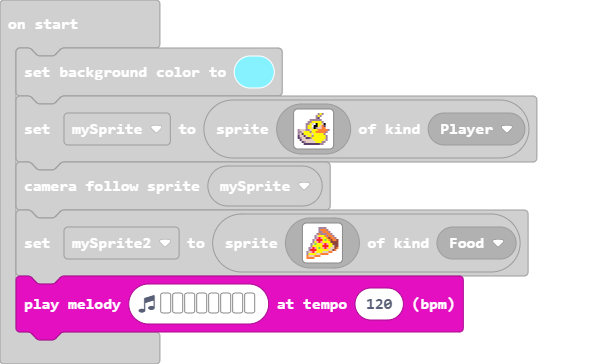
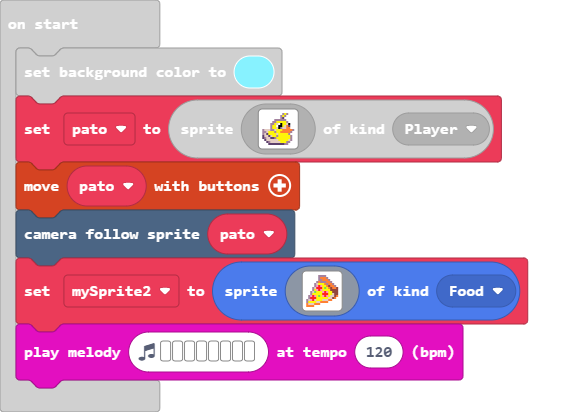
Update main.blocks, main.ts

diff --git a/main.ts b/main.ts
@@ -1,5 +1,5 @@
 scene.setBackgroundColor(9)
-let mySprite = sprites.create(img`
+let pato = sprites.create(img`
     . . . . . . . . . . b 5 b . . . 
     . . . . . . . . . b 5 b . . . . 
     . . . . . . . . . b c . . . . . 
@@ -17,7 +17,8 @@ let mySprite = sprites.create(img`
     . . c b d d d d d 5 5 5 b b . . 
     . . . c c c c c c c c b b . . . 
     `, SpriteKind.Player)
-scene.cameraFollowSprite(mySprite)
+controller.moveSprite(pato)
+scene.cameraFollowSprite(pato)
 let mySprite2 = sprites.create(img`
     . . . . . . b b b b . . . . . . 
     . . . . . . b 4 4 4 b . . . . . 
